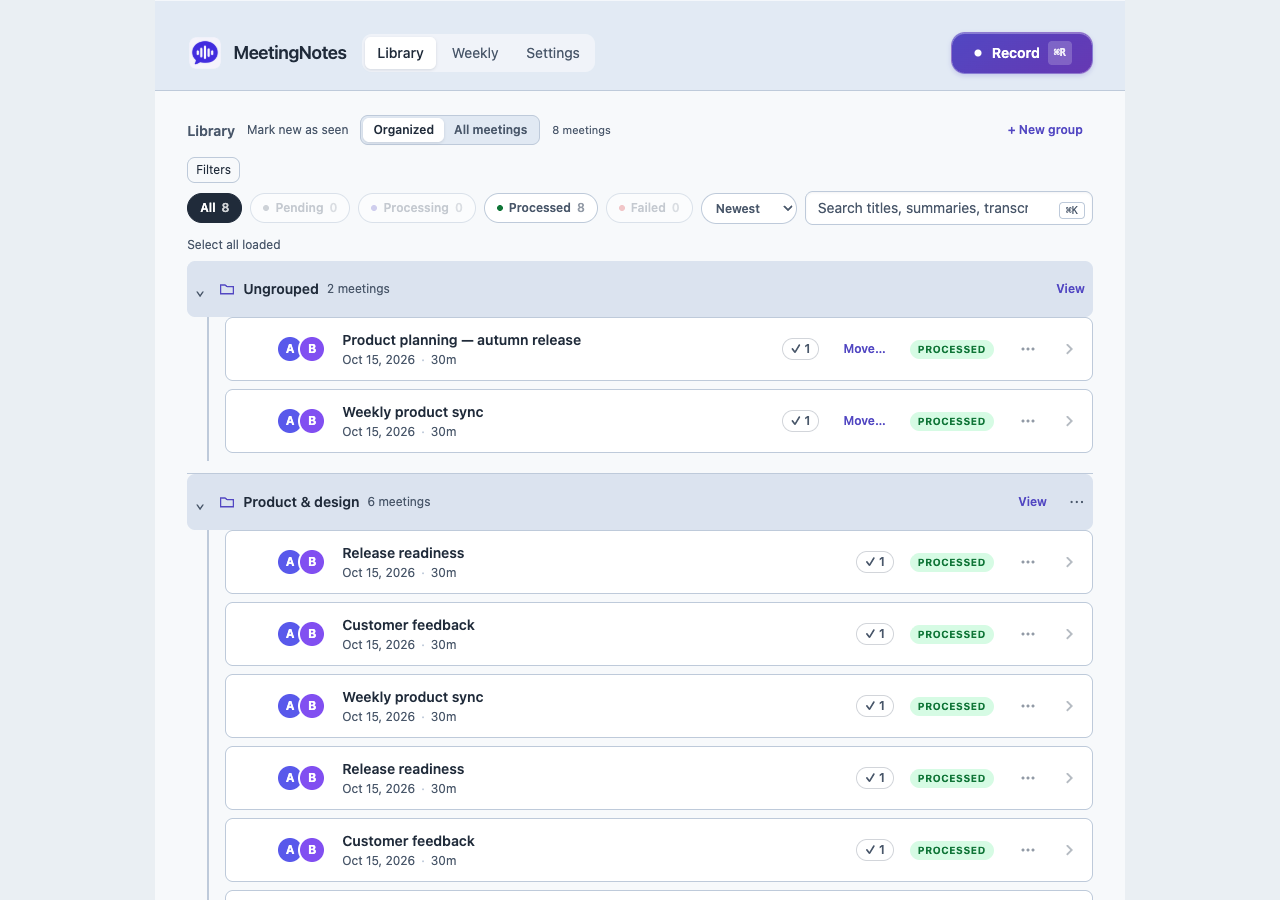
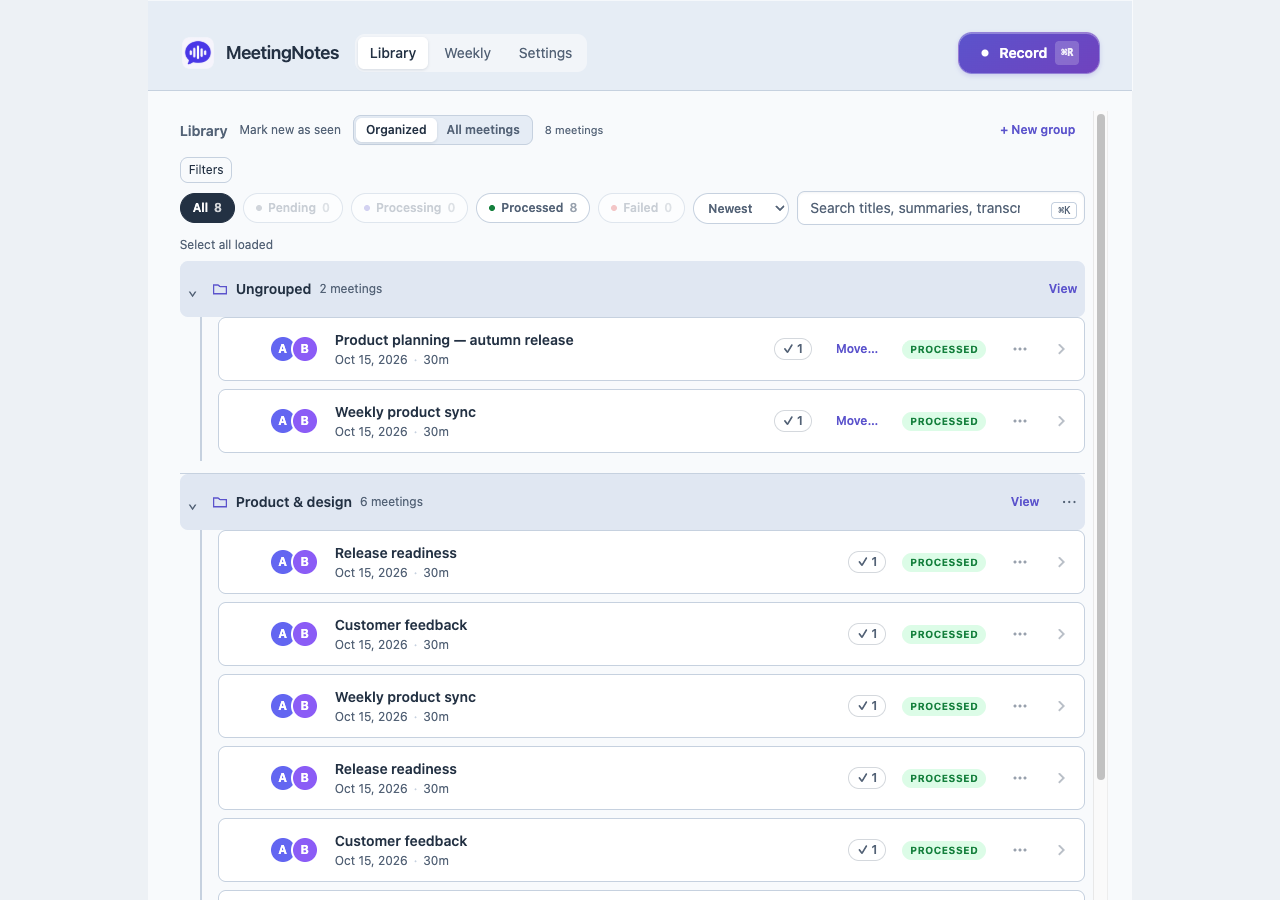
docs(release): record 1.17 verification and final UI screenshots

diff --git a/docs/reviews/2026-10-16-golden-gate-release.md b/docs/reviews/2026-10-16-golden-gate-release.md
@@ -51,7 +51,37 @@ typing in the new contrast-test helper. A test-only follow-up uses RGB tuples
 and explicit missing-token checks. Both renderer/fixture type checks, all 42
 contrast tests, lint and docs then passed locally. No product source changed.
 The failed clone was deleted; logs remain under the standard MeetingNotes
-results directory. A full rerun is in progress; final results follow here.
+results directory.
+
+The next run `meetingnotes-test-20261016212535-65991-6621d455` hit the previously
+documented unchanged `LibraryWatcher` five-second timeout (1,361 tests passed).
+The isolated watcher suite passed 10/10 in 2.08 seconds on the host; its product
+and test files have no diff from main. This supports intermittency, not a proven
+root cause. No watcher behavior, assertions, timeouts or CI gate were changed.
+That clone was also deleted.
+
+**Final full run: PASS**, `meetingnotes-test-20261016212835-67705-bf9ca7ee`.
+Tested commit `19f2b124b4570a1dee62e42e6d4a8fa70cd8e6b5`, tree
+`b07abe7f02ef2b55a7d3e9de9de2a85735353798`. Actual guest: macOS 27.0 (26A428),
+arm64, Node 22.23.2, npm 10.9.8, Electron 44.7.0.
+
+- Clean dependency installation/Electron-native rebuild; **1,362 tests passed,
+  six skipped**, 158 test files passed/two skipped.
+- Complete capture-helper synthetic writer/microphone-timing harness.
+- Renderer, fixture and main type checks, production build, docs and repository
+  zero-warning lint.
+- Browse benchmark; all **12 UI fixture modes**, including appearance,
+  populated Library/scroll/zoom, processing, naming, selection/group moves,
+  terminology, Settings/history and rename navigation; beta comparison UI.
+- Runner wrote PASS, exited zero, deleted its owned clone and posted
+  `tart-ci=success`. No task-owned VM remains. Base and unrelated VMs were not
+  changed. No installer payload was staged or installer VM acceptance run.
+
+Logs/screenshots remain at
+`~/Library/Logs/MacOS Test Suite/meetingnotes/<run-name>/` for all three runs.
+Final documentation/screenshot-only updates reuse this unchanged tested product
+and test tree; docs/link checks run separately before merge. The installer
+product remains byte-identical to the tested app source.
 
 ## Acceptance boundaries
 
@@ -59,3 +89,6 @@ results directory. A full rerun is in progress; final results follow here.
 - CSS material is not native OS glass; opaque/reduced-effects behavior is tested.
 - Existing virtualization and scroll owners are preserved.
 - No installer VM acceptance, actual capture or inference is requested/claimed.
+- Dependency versions are unchanged; npm reports the existing 38 audit findings
+  (one low, 12 moderate, 22 high, three critical). No automatic dependency upgrade
+  or audit remediation is claimed in this visual release.

diff --git a/docs/releases/v1.17.0.md b/docs/releases/v1.17.0.md
@@ -51,6 +51,9 @@ desktop/narrow layouts, detail tabs, navigation, disclosure, dialog focus,
 source selection and reduced-effects fallback. Existing fixtures retain scroll,
 selection, naming, processing and persistence coverage. All fixtures use
 synthetic data, with no recording, real integrations or model preparation.
+Full clean-Mac CI passed **1,362 tests**, all **12 UI fixtures**, type checks,
+build, lint, docs, capture-helper checks and the Browse benchmark. Local DMG/ZIP
+signature, version, integrity and packaged-runtime-file checks passed.
 See the [verification report](../reviews/2026-10-16-golden-gate-release.md) for
 the tested source, full-suite results and local artifact identity.
 
